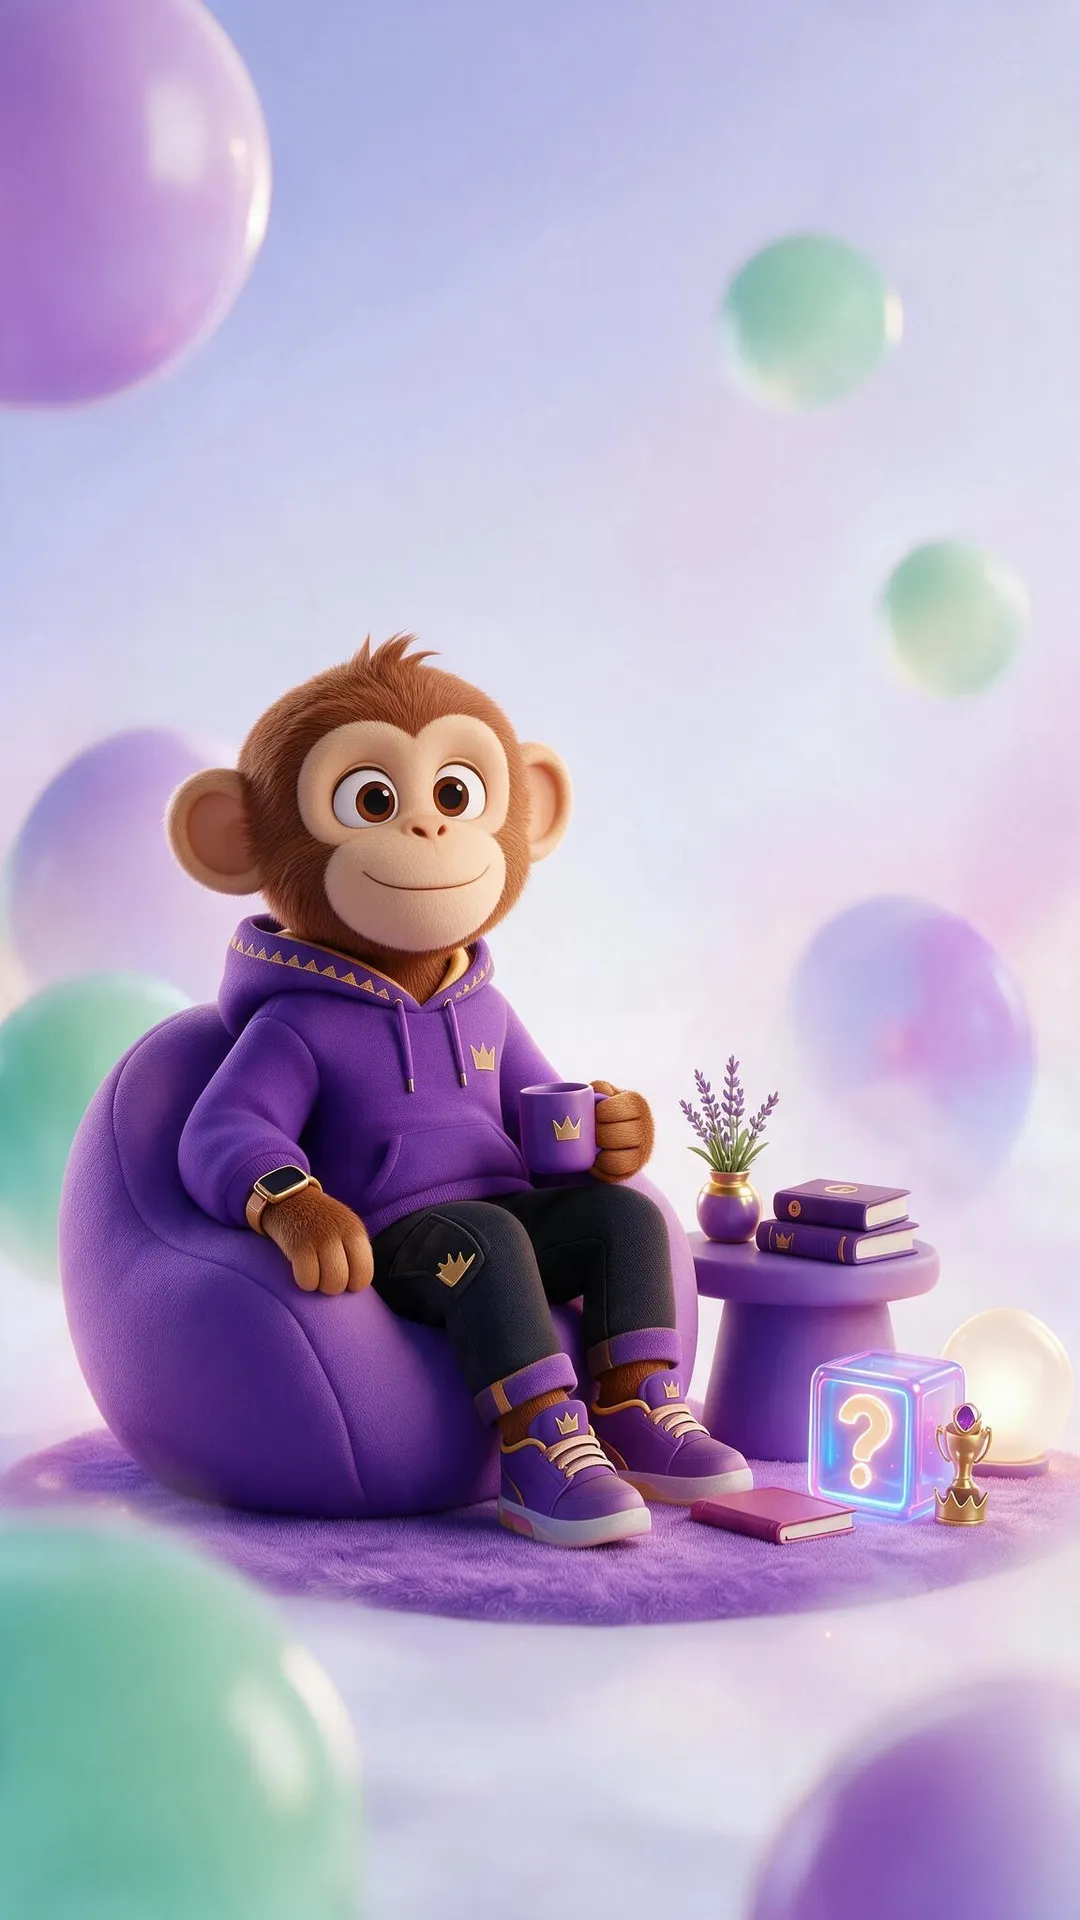
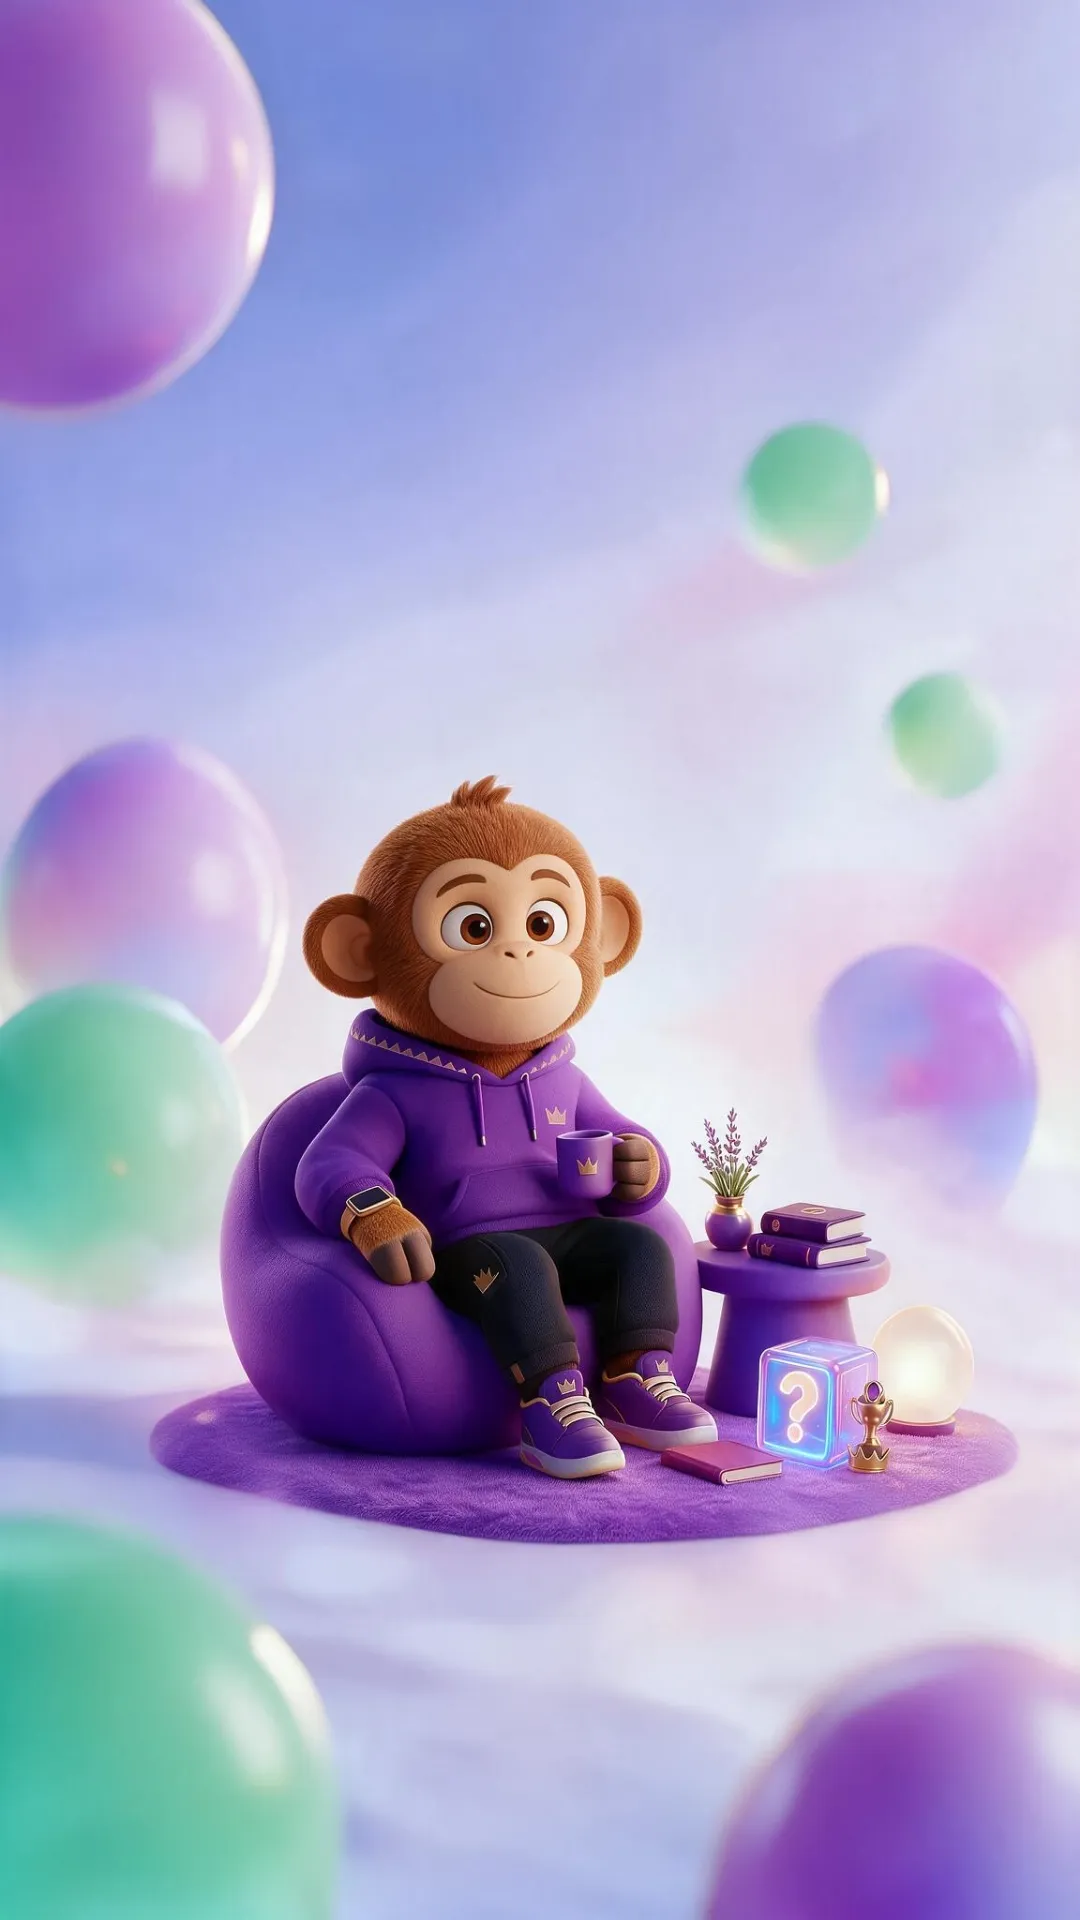
Mascot scenes: five new renders, and a bull and a penguin
The owl, tiger, monkey, elephant and giraffe take the owner's new renders
of the beanbag scene the panda already wears, at the scenes' 1080x1920
WebP from the 1152x2048 originals, each with a face thumb cut from the
same image.

The bull and the penguin are new: assets, ids in MASCOT_IDS, names in all
seven locales, and a migration recreating the profiles.home_mascot CHECK
with the two of them in it. Until that migration runs their tiles are in
the picker but the choice will not save — the constraint refuses an id
the database does not know.

The wolf and the dolphin keep their old scenes; no new render came for
either, so they are the two that still look like the previous set.

Claude-Session: https://claude.ai/code/session_01PUvd1TyKZXw9CiDLmep4C9

diff --git a/src/config/mascots.ts b/src/config/mascots.ts
@@ -37,6 +37,10 @@ import giraffeScene from "@/assets/mascots/giraffe.webp";
 import giraffeThumb from "@/assets/mascots/thumbs/giraffe.webp";
 import dolphinScene from "@/assets/mascots/dolphin.webp";
 import dolphinThumb from "@/assets/mascots/thumbs/dolphin.webp";
+import bullScene from "@/assets/mascots/bull.webp";
+import bullThumb from "@/assets/mascots/thumbs/bull.webp";
+import penguinScene from "@/assets/mascots/penguin.webp";
+import penguinThumb from "@/assets/mascots/thumbs/penguin.webp";
 
 export const MASCOT_IDS = [
   "owl",
@@ -47,6 +51,8 @@ export const MASCOT_IDS = [
   "elephant",
   "giraffe",
   "dolphin",
+  "bull",
+  "penguin",
 ] as const;
 
 export type MascotId = (typeof MASCOT_IDS)[number];
@@ -68,6 +74,8 @@ export const MASCOTS: readonly Mascot[] = [
   { id: "elephant", thumb: elephantThumb, scene: elephantScene },
   { id: "giraffe", thumb: giraffeThumb, scene: giraffeScene },
   { id: "dolphin", thumb: dolphinThumb, scene: dolphinScene },
+  { id: "bull", thumb: bullThumb, scene: bullScene },
+  { id: "penguin", thumb: penguinThumb, scene: penguinScene },
 ];
 
 export const isMascotId = (value: unknown): value is MascotId =>

diff --git a/src/config/__tests__/mascots.test.ts b/src/config/__tests__/mascots.test.ts
@@ -4,11 +4,11 @@ import { readFileSync, readdirSync } from "node:fs";
 import { translations, LANGUAGES } from "@/locales";
 
 describe("the mascot catalog", () => {
-  it("carries the eight animals, and no King", () => {
+  it("carries the ten animals, and no King", () => {
     // The King is the home screen's own default, not a choice: a player who
     // never picks keeps the idle loop, and the picker shows only the animals.
     expect(MASCOTS.map((m) => m.id)).toEqual([...MASCOT_IDS]);
-    expect(MASCOTS).toHaveLength(8);
+    expect(MASCOTS).toHaveLength(10);
     expect(isMascotId("king")).toBe(false);
   });
 

diff --git a/src/locales/ka.ts b/src/locales/ka.ts
@@ -587,6 +587,8 @@ export const ka = {
       elephant: "სპილო",
       giraffe: "ჟირაფი",
       dolphin: "დელფინი",
+      bull: "ხარი",
+      penguin: "პინგვინი",
     },
     createNew: "ახალი ავატარის შექმნა",
     takeSelfie: "სელფი",

diff --git a/src/locales/fr.ts b/src/locales/fr.ts
@@ -486,6 +486,8 @@ export const fr: KaTranslations = {
       elephant: "Éléphant",
       giraffe: "Girafe",
       dolphin: "Dauphin",
+      bull: "Taureau",
+      penguin: "Pingouin",
     },
     createNew: "Créer un nouvel avatar",
     uploadPhoto: "Télécharger",

diff --git a/src/locales/de.ts b/src/locales/de.ts
@@ -490,6 +490,8 @@ export const de: KaTranslations = {
       elephant: "Elefant",
       giraffe: "Giraffe",
       dolphin: "Delfin",
+      bull: "Stier",
+      penguin: "Pinguin",
     },
     createNew: "Neuen Avatar erstellen",
     uploadPhoto: "Hochladen",

diff --git a/src/locales/pt.ts b/src/locales/pt.ts
@@ -492,6 +492,8 @@ export const pt: KaTranslations = {
       elephant: "Elefante",
       giraffe: "Girafa",
       dolphin: "Golfinho",
+      bull: "Touro",
+      penguin: "Pinguim",
     },
     createNew: "Criar novo avatar",
     uploadPhoto: "Carregar",

diff --git a/src/locales/es.ts b/src/locales/es.ts
@@ -493,6 +493,8 @@ export const es: KaTranslations = {
       elephant: "Elefante",
       giraffe: "Jirafa",
       dolphin: "Delfín",
+      bull: "Toro",
+      penguin: "Pingüino",
     },
     createNew: "Crear nuevo avatar",
     uploadPhoto: "Subir",

diff --git a/src/locales/it.ts b/src/locales/it.ts
@@ -489,6 +489,8 @@ export const it: KaTranslations = {
       elephant: "Elefante",
       giraffe: "Giraffa",
       dolphin: "Delfino",
+      bull: "Toro",
+      penguin: "Pinguino",
     },
     createNew: "Crea nuovo avatar",
     uploadPhoto: "Carica",

diff --git a/src/locales/en.ts b/src/locales/en.ts
@@ -589,6 +589,8 @@ export const en: KaTranslations = {
       elephant: "Elephant",
       giraffe: "Giraffe",
       dolphin: "Dolphin",
+      bull: "Bull",
+      penguin: "Penguin",
     },
     createNew: "Create New Avatar",
     takeSelfie: "Selfie",
